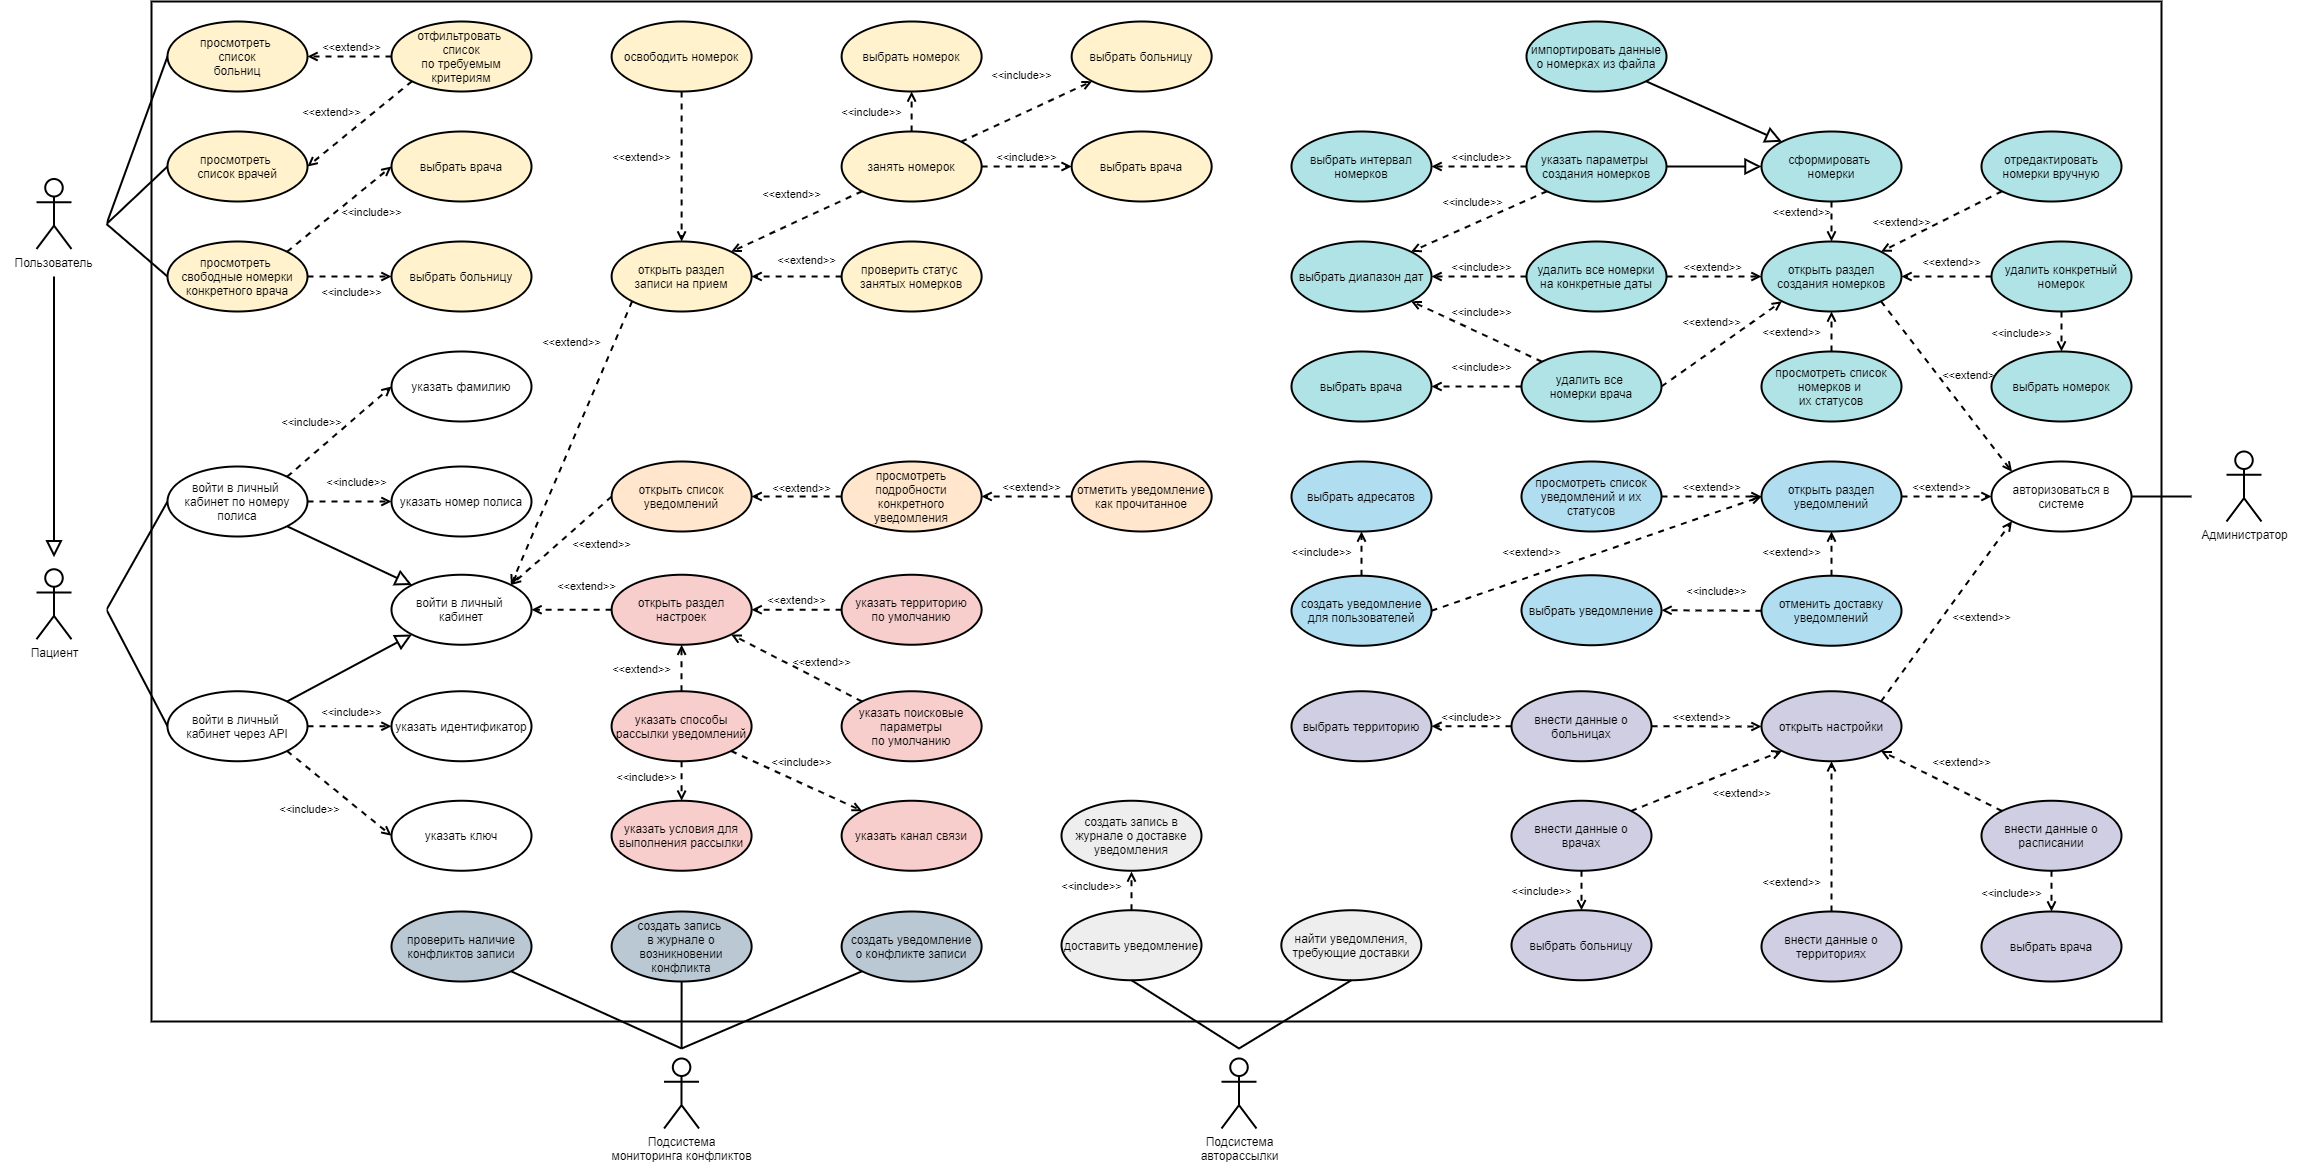
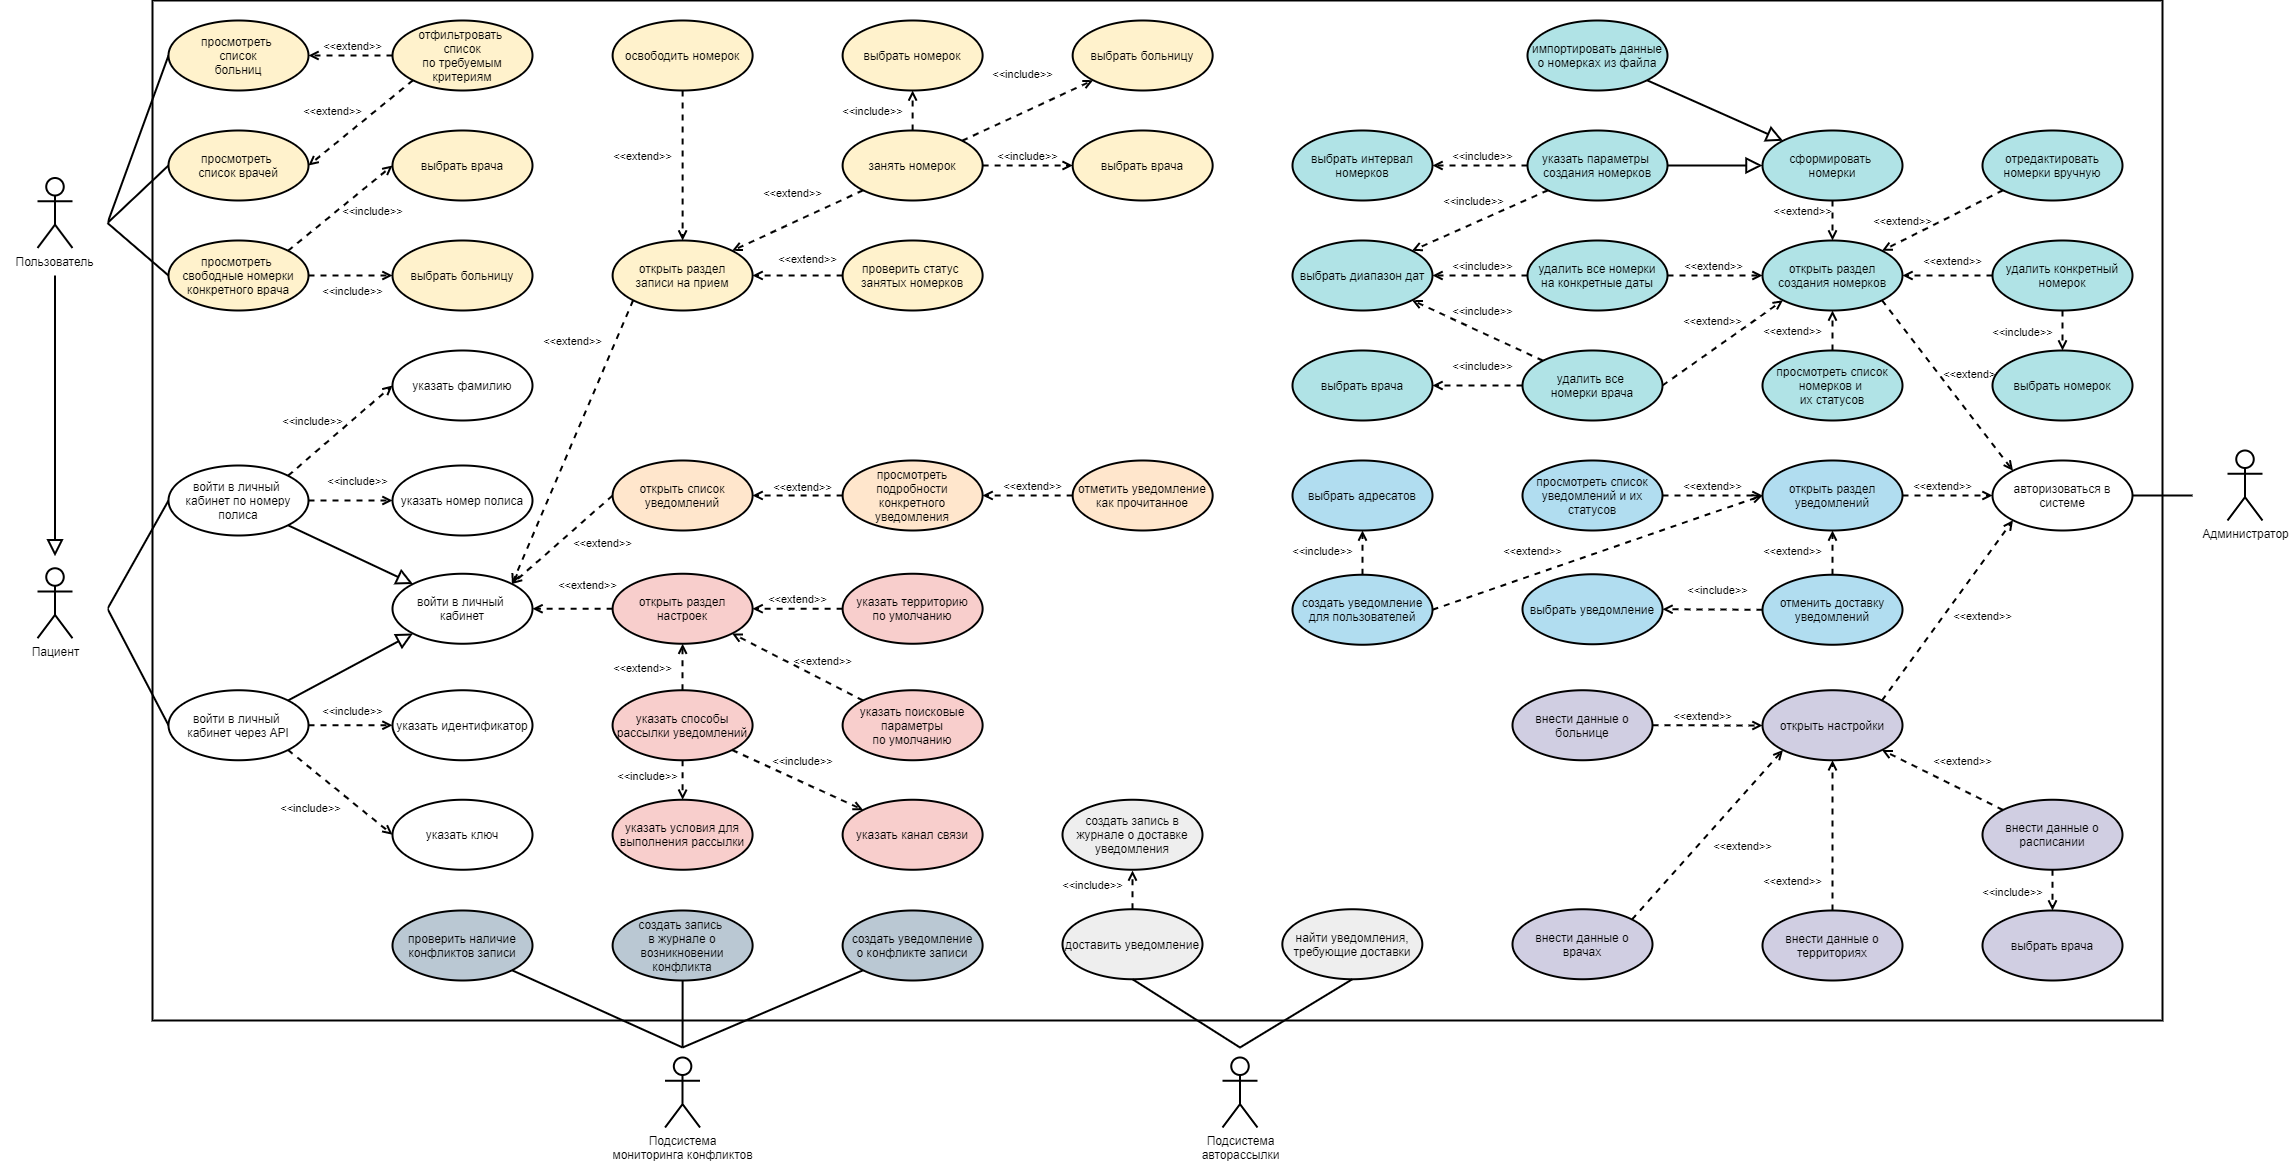
uc priorities added

diff --git a/index.html b/index.html
@@ -12,7 +12,7 @@
         <a href="#references">Туториалы</a>
         <a href="#project-management">Задания с ОПД</a>
         <a href="#deadlines">Дедлайны</a>
-        Последнее обновление: 02.11.2021
+        Последнее обновление: 06.11.2021
     </div>
 
     <div class="section" id="dev">
@@ -52,10 +52,21 @@
         </h1>
         <a class="jump-header" href="#">Наверх</a>
         <div class="section-content">
+            <h2>Use-case диаграмма - версия с приоритетными вариантами</h2>
+            <img src="use-case-working.png">
+            <p>
+                Нормальные линии - варианты, которые нужно реализовать до 17 числа.
+            </p>
+            <p>
+                Пунктирные линии - варианты, которые мы реализуем когда-нибудь.
+            </p>
+            <p>
+                Темные овалы - варианты, на которые у нас вообще вряд ли хватит времени. 
+            </p>
             <h2>Use-case диаграмма</h2>
             <img src="use-case.png">
             <a href="https://drive.google.com/file/d/1o5CSI6KDeC1rk6EkwMtpvyW4IS_zoFvo/view?usp=sharing" target="_blank">Файл в формате .png</a>
-            <a href="https://drive.google.com/file/d/1idYOxr51Yqw3X6NNzUbtCtUZ9W8v03PI/view?usp=sharing" target="_blank">Исходный файл в формате .drawio (версия от 10.10)</a>
+            <a href="https://drive.google.com/file/d/1mRsLwQnv-MDVv1xgzanI_3VCcPs6Kr_6/view?usp=sharing" target="_blank">Исходный файл в формате .drawio (версия от 06.11)</a>
 
             <h2>Список сущностей</h2>
             <img src="entities.png">
